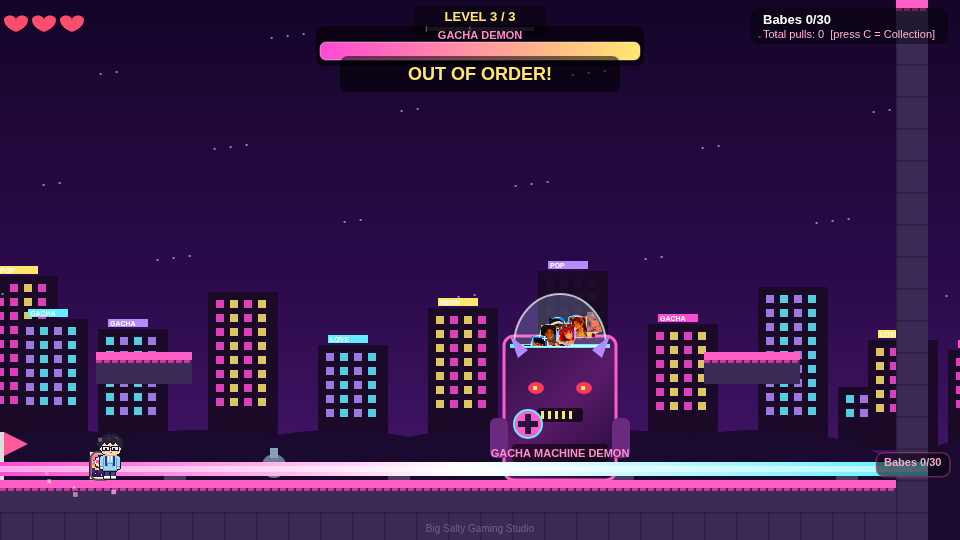
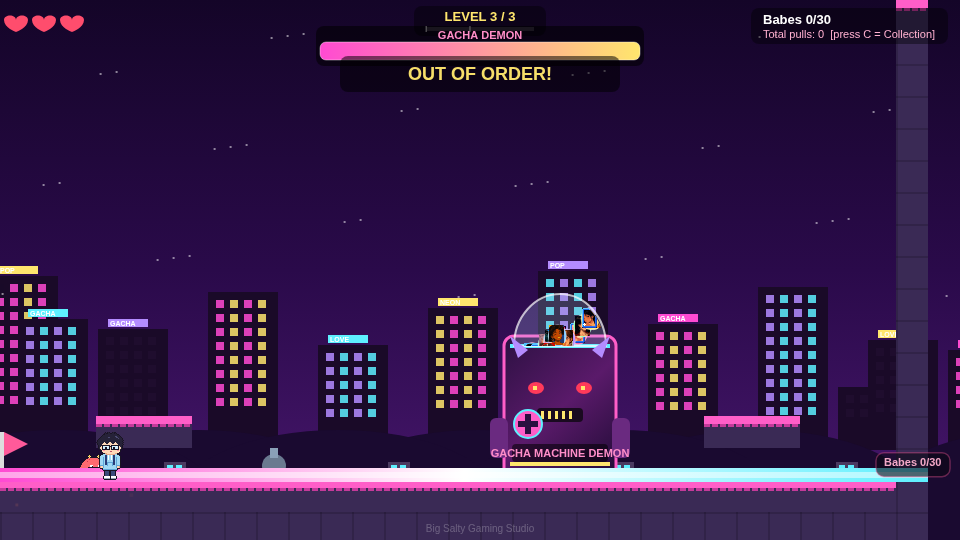
Boss fight fixes: Oni/Slime minions, lower platforms, post-hit stun
Replace fake-pull cardback hoppers with Mini Oni walkers and Mochi Slime
hoppers. Drop arena ledges from y=11 (unreachable) to y=13 (2-tile jump).
After a crank stomp the boss enters a 1.15s cyan stunned recovery with no
contact damage, then a short idle telegraph before the next attack.

diff --git a/index.html b/index.html
@@ -1508,8 +1508,9 @@ const SECTIONS = {
   rooftopRun: { w: 18, plats: [
       G(0, 18), P(6, 13, 3), P(11, 12, 3) ],
     picks: [[7, 11], [12, 10]], enemies: [], cps: [2] },
-  // Boss arena (~1 screen / 30 tiles). Entrance is the checkpoint; the goal is unlocked after the defeat.
-  bossArena: { w: 30, plats: [G(0, 30), P(4, 11, 3), P(23, 11, 3)],
+  // Boss arena (~1 screen / 30 tiles). Entrance CP; goal unlocks after defeat.
+  // Side ledges at y=13 (2 tiles / 64px) — within max jump ~2.73 tiles; old y=11 was unreachable.
+  bossArena: { w: 30, plats: [G(0, 30), P(4, 13, 3), P(23, 13, 3)],
     picks: [], enemies: [], cps: [1], goal: 26 },
 };
 
@@ -2324,7 +2325,8 @@ function finishSlot() {
 
 // ---------- Gacha Machine Demon (Level 3 boss) ----------
 // 3 HP. Attacks telegraph clearly; the glowing crank is only stompable while it "jams"
-// after an attack (smoke + "OUT OF ORDER"). Death resets HP + clears minions/projectiles
+// after an attack (smoke + "OUT OF ORDER"). Hit → stunned recovery (cyan flash) before hostile.
+// Death resets HP + clears minions/projectiles
 // and parks the player at the arena entrance. Defeat → shake → rare-or-better slot pull → final win.
 const BOSS_HP = 3;
 const BOSS_W = 4 * TILE;   // 128
@@ -2334,6 +2336,7 @@ const BOSS_BEAM_WARN = 0.6, BOSS_BEAM_FIRE = 0.55, BOSS_BEAM_FIRE_LOW = 0.2;
 const BOSS_COIN_N = [3, 4, 5];     // coins per spit by phase (1–3)
 const BOSS_MINION_N = [2, 3, 4];
 const BOSS_VULN = [1.6, 1.35, 1.15];
+const BOSS_HIT_STUN = 1.15; // post-stomp recovery before hostile again
 const BOSS_IDLE = [1.1, 0.85, 0.65];
 const BOSS_ATTACKS = ["beam", "coins", "minions"];
 
@@ -2377,7 +2380,7 @@ function resetBossFight() {
   if (!boss) return;
   // Clear fight-only state; keep position / arena / caps
   boss.hp = BOSS_HP; boss.phase = 0; boss.mode = "idle"; boss.modeT = 0; boss.nextAtk = 0;
-  boss.beam = null; boss.coins = []; boss.minions = [];
+  boss.beam = null; boss.coins = []; clearBossMinions();
   boss.shake = 0; boss.flash = 0; boss.grin = 0; boss.rewardPending = false; boss.defeated = false;
   // Remove the temporary walls so the next entry re-locks cleanly
   if (boss.wallPlats.length) {
@@ -2432,19 +2435,37 @@ function beginBossAttack(kind) {
     }
     boss.grin = 0.6;
   } else if (kind === "minions") {
+    clearBossMinions();
     const n = BOSS_MINION_N[bossPhase()];
-    boss.minions = [];
+    const sp = (level && level.diff && level.diff.enemySpeed) || 1;
+    const minX = boss.arenaL + 8, maxX = boss.x - 8;
     for (let i = 0; i < n; i++) {
-      const mx = boss.arenaL + 40 + i * 70 + Math.random() * 20;
-      boss.minions.push({
-        type: "minion", x: mx, y: GROUND_Y * TILE - 28, w: 22, h: 28,
-        vx: 55 + bossPhase() * 12, vy: 0, dir: Math.random() < 0.5 ? -1 : 1,
-        alive: true, hopT: Math.random() * 0.4, hopEvery: 0.85 - bossPhase() * 0.08,
-        minX: boss.arenaL + 8, maxX: boss.x - 8, bob: Math.random() * 6, prevX: mx, prevY: GROUND_Y * TILE - 28,
+      const hop = i % 2 === 1; // alternate Mini Oni walker / Mochi Slime hopper
+      const mxTile = (boss.arenaL + 40 + i * 70) / TILE;
+      const e = enemyOnPlat(hop ? "hopper" : "walker", mxTile, GROUND_Y, hop ? 26 : 28, hop ? 26 : 28, {
+        vx: (hop ? 40 : 55 + bossPhase() * 10) * sp,
+        dir: Math.random() < 0.5 ? -1 : 1,
+        minX, maxX,
+        hopT: hop ? Math.random() * 0.4 : 0,
+        hopEvery: hop ? (0.95 - bossPhase() * 0.08) / sp : 1.1,
+        bossMinion: true,
       });
+      // Clamp into the arena walk band
+      e.x = Math.max(minX, Math.min(maxX - e.w, e.x));
+      e.prevX = e.x; e.prevY = e.y;
+      enemies.push(e);
+      boss.minions.push(e);
     }
     boss.grin = 0.5;
   }
+}
+
+function clearBossMinions() {
+  if (!boss) return;
+  for (const m of boss.minions) { m.alive = false; m.squishT = 99; }
+  boss.minions = [];
+  // Drop spent boss-minion corpses from the shared enemies list
+  enemies = enemies.filter(e => !e.bossMinion);
 }
 
 function beginBossVulnerable() {
@@ -2457,23 +2478,29 @@ function beginBossVulnerable() {
 function hitBoss() {
   if (!boss || boss.mode !== "vulnerable") return false;
   boss.hp--; boss.phase++;
-  boss.shake = 0.55; boss.flash = 0;
-  player.vy = STOMP_V_HELD; player.fromStomp = true; player.stompGrace = 0.15;
+  boss.shake = 0.7;
+  player.vy = STOMP_V_HELD; player.fromStomp = true; player.stompGrace = 0.4;
   player.onGround = false; player.jumpBuf = 0;
+  // Nudge off the crank so we don't re-land on the cabinet
+  player.vx = (player.x + player.w / 2 < boss.x + boss.w / 2 ? -1 : 1) * 180;
   sfx.stomp();
-  spawnParticles(boss.x + boss.w / 2, boss.y + boss.h / 2, "#ff5ec8", 18);
-  spawnParticles(boss.x + boss.w / 2, boss.y + 40, "#ffe66d", 10);
-  boss.minions.forEach(m => { m.alive = false; });
-  boss.coins = [];
+  spawnParticles(boss.x + boss.w / 2, boss.y + boss.h / 2, "#5ef0ff", 18);
+  spawnParticles(boss.x + boss.w / 2, boss.y + 40, "#ffffff", 12);
+  clearBossMinions();
+  boss.coins = []; boss.beam = null;
   if (boss.hp <= 0) beginBossDefeat();
-  else { boss.mode = "idle"; boss.modeT = 0; boss.nextAtk = 0.4; addCallout("Gacha jammed! ×" + (BOSS_HP - boss.hp), "#ff8ec8"); }
+  else {
+    // Stunned recovery: no contact damage / no attacks; cyan-white flash, then idle telegraph
+    boss.mode = "stunned"; boss.modeT = 0; boss.flash = BOSS_HIT_STUN; boss.grin = 0;
+    addCallout("Gacha jammed! ×" + (BOSS_HP - boss.hp), "#5ef0ff");
+  }
   return true;
 }
 
 function beginBossDefeat() {
   boss.mode = "defeat"; boss.modeT = 0; boss.defeated = true;
   boss.shake = 1.8; boss.beam = null; boss.coins = [];
-  boss.minions.forEach(m => { m.alive = false; });
+  clearBossMinions();
   addCallout("GACHA DEMON DOWN!", "#ffe66d");
   sfx.win();
 }
@@ -2520,29 +2547,8 @@ function updateBoss(dt) {
     if (aabb(player, c) && invuln <= 0) { hurtPlayer(c.x); boss.coins.splice(i, 1); }
   }
 
-  // Minions (cardback hoppers)
-  for (const m of boss.minions) {
-    if (!m.alive) continue;
-    m.prevX = m.x; m.prevY = m.y; m.bob += dt * 4;
-    if (m.x < m.minX) { m.x = m.minX; m.dir = 1; }
-    if (m.x + m.w > m.maxX) { m.x = m.maxX - m.w; m.dir = -1; }
-    m.x += m.vx * m.dir * dt;
-    m.vy += GRAV * 0.9 * dt; m.y += m.vy * dt;
-    const top = platformTopNear(m.x, m.w, m.y + m.h);
-    if (top != null && m.y + m.h >= top - 1 && m.vy >= 0) {
-      m.y = top - m.h; m.vy = 0; m.hopT += dt;
-      if (m.hopT > m.hopEvery) { m.vy = -480; m.hopT = 0; }
-    }
-    if (!aabb(player, m)) continue;
-    const prevPB = (player.prevY != null ? player.prevY : player.y) + player.h;
-    const fromAbove = prevPB <= (m.prevY != null ? m.prevY : m.y) + 8;
-    if (fromAbove || (player.y + player.h <= m.y + m.h * 0.55 && player.y < m.y)) {
-      m.alive = false; player.vy = STOMP_V; player.fromStomp = true; player.stompGrace = 0.12;
-      player.onGround = false; sfx.stomp();
-      spawnParticles(m.x + m.w / 2, m.y + m.h / 2, "#ffb0d0", 8);
-    } else hurtPlayer(m.x + m.w / 2);
-  }
-  boss.minions = boss.minions.filter(m => m.alive || (m.deadT = (m.deadT || 0) + dt) < 0.3);
+  // Boss minions live in `enemies` (walker/hopper AI + stomp rules). Keep the ref list tidy.
+  boss.minions = boss.minions.filter(m => m.alive || (m.squishT != null && m.squishT < ENEMY_SQUISH_SHOW));
 
   // Beam
   if (boss.beam) {
@@ -2564,7 +2570,7 @@ function updateBoss(dt) {
       const prevPB = (player.prevY != null ? player.prevY : player.y) + player.h;
       if (prevPB <= crank.y + 10 && player.vy >= 0) hitBoss();
     }
-  } else if (boss.mode !== "defeat" && boss.mode !== "done") {
+  } else if (boss.mode !== "defeat" && boss.mode !== "done" && boss.mode !== "stunned") {
     // Body contact hurts (not stomping the body — only the crank is a weak point)
     if (aabb(player, boss) && invuln <= 0 && player.stompGrace <= 0) hurtPlayer(boss.x + boss.w / 2);
   }
@@ -2581,6 +2587,8 @@ function updateBoss(dt) {
   } else if (boss.mode === "minions") {
     // Vulnerable once minions are gone, or after a timeout so the fight can't stall
     if ((boss.minions.every(m => !m.alive) && boss.modeT > 0.6) || boss.modeT > 5.5) beginBossVulnerable();
+  } else if (boss.mode === "stunned") {
+    if (boss.modeT >= BOSS_HIT_STUN) { boss.mode = "idle"; boss.modeT = 0; boss.nextAtk = 0.6; boss.flash = 0; }
   } else if (boss.mode === "vulnerable") {
     if (boss.modeT >= BOSS_VULN[ph]) { boss.mode = "idle"; boss.modeT = 0; boss.nextAtk = 0.3; }
   } else if (boss.mode === "defeat") {
@@ -2599,8 +2607,20 @@ function drawBoss() {
   body.addColorStop(0, "#2a1040"); body.addColorStop(0.5, "#5a1a6a"); body.addColorStop(1, "#1a0a30");
   ctx.fillStyle = body;
   roundRect(bx + 8, by + 48, boss.w - 16, boss.h - 48, 10); ctx.fill();
-  ctx.strokeStyle = "#ff5ec8"; ctx.lineWidth = 3;
+  ctx.strokeStyle = (boss.mode === "stunned") ? "#5ef0ff" : "#ff5ec8"; ctx.lineWidth = 3;
   roundRect(bx + 8, by + 48, boss.w - 16, boss.h - 48, 10); ctx.stroke();
+  if (boss.mode === "stunned") {
+    const pulse = 0.25 + 0.2 * Math.abs(Math.sin(boss.t * 14));
+    ctx.fillStyle = `rgba(255,255,255,${pulse})`;
+    roundRect(bx + 8, by + 48, boss.w - 16, boss.h - 48, 10); ctx.fill();
+    // Smoke while recovering
+    for (let i = 0; i < 5; i++) {
+      const sx = bx + 24 + i * 20 + Math.sin(boss.t * 4 + i) * 5;
+      const sy = by + 36 - ((boss.modeT * 40 + i * 10) % 55);
+      ctx.fillStyle = `rgba(200,230,255,${0.4 - i * 0.05})`;
+      ctx.beginPath(); ctx.arc(sx, sy, 7 + (i % 3), 0, Math.PI * 2); ctx.fill();
+    }
+  }
   // Neon trim stripes
   ctx.fillStyle = "#5ef0ff"; ctx.fillRect(bx + 14, by + 56, boss.w - 28, 4);
   ctx.fillStyle = "#ffe66d"; ctx.fillRect(bx + 14, by + boss.h - 18, boss.w - 28, 4);
@@ -2622,9 +2642,10 @@ function drawBoss() {
     if (babe) drawCard(babe, px - 7.5, py - 10, 15, 20, { iconOnly: true });
   }
   ctx.restore();
-  // Demon face
-  const eyeY = by + 100, eyeOpen = boss.mode === "vulnerable" ? 3 : 6;
-  ctx.fillStyle = boss.mode === "vulnerable" ? "#888" : "#ff3a5a";
+  // Demon face (stunned = cyan/white, vulnerable = dim, else hostile red)
+  const stunned = boss.mode === "stunned";
+  const eyeY = by + 100, eyeOpen = (boss.mode === "vulnerable" || stunned) ? 3 : 6;
+  ctx.fillStyle = stunned ? "#5ef0ff" : boss.mode === "vulnerable" ? "#888" : "#ff3a5a";
   ctx.beginPath(); ctx.ellipse(bx + 40, eyeY, 8, eyeOpen, 0, 0, Math.PI * 2); ctx.fill();
   ctx.beginPath(); ctx.ellipse(bx + boss.w - 40, eyeY, 8, eyeOpen, 0, 0, Math.PI * 2); ctx.fill();
   ctx.fillStyle = "#ffe66d";
@@ -2646,7 +2667,8 @@ function drawBoss() {
   // Crank / weak point
   const cr = bossCrankRect();
   const vuln = boss.mode === "vulnerable";
-  ctx.fillStyle = vuln ? "#ffe66d" : "#ff5ec8";
+  const stun = boss.mode === "stunned";
+  ctx.fillStyle = stun ? "#ffffff" : vuln ? "#ffe66d" : "#ff5ec8";
   ctx.beginPath(); ctx.arc(cr.x + cr.w / 2 + sk, cr.y + cr.h / 2, cr.w / 2, 0, Math.PI * 2); ctx.fill();
   ctx.strokeStyle = vuln ? "#fff" : "#5ef0ff"; ctx.lineWidth = vuln ? 3 : 2; ctx.stroke();
   ctx.fillStyle = "#2a1040";
@@ -2665,9 +2687,13 @@ function drawBoss() {
     ctx.fillStyle = "#ffe66d"; ctx.font = "bold 11px sans-serif"; ctx.textAlign = "center";
     ctx.fillText("OUT OF ORDER", bx + boss.w / 2, by + 160);
   }
+  if (stun) {
+    ctx.fillStyle = "#5ef0ff"; ctx.font = "bold 12px sans-serif"; ctx.textAlign = "center";
+    ctx.fillText("STUNNED", bx + boss.w / 2, by + 160);
+  }
   // Nameplate
   ctx.fillStyle = "rgba(0,0,0,0.55)"; roundRect(bx + 16, by + boss.h - 36, boss.w - 32, 18, 4); ctx.fill();
-  ctx.fillStyle = "#ff8ec8"; ctx.font = "bold 11px sans-serif"; ctx.textAlign = "center";
+  ctx.fillStyle = stun ? "#5ef0ff" : "#ff8ec8"; ctx.font = "bold 11px sans-serif"; ctx.textAlign = "center";
   ctx.fillText("GACHA MACHINE DEMON", bx + boss.w / 2, by + boss.h - 23);
 
   // Beam telegraph / fire
@@ -2695,12 +2721,7 @@ function drawBoss() {
     ctx.fillStyle = "#c4a020"; ctx.font = "bold 9px sans-serif"; ctx.textAlign = "center";
     ctx.fillText("¥", 0, 3); ctx.restore();
   }
-  // Fake-pull minions (mystery cardbacks)
-  for (const m of boss.minions) {
-    if (!m.alive && (m.deadT || 0) > 0.05) continue;
-    const bob = Math.sin(m.bob) * 2;
-    drawCard(CHAR_DEFS[0], m.x, m.y + bob, m.w, m.h, { iconOnly: true, locked: true });
-  }
+  // Minions are drawn with the normal enemy pass (Mini Oni / Mochi Slime).
 }
 
 function drawBossHud() {

diff --git a/README.md b/README.md
@@ -36,7 +36,7 @@ Open `index.html` (or host the file) on iOS Safari / Android Chrome. Viewport is
 - **Death**: gallery-style scrolled grid (rarity→name) with the lost babe crossed by a pen-stroke red X; owned count in header. Pit = full wipe + lose one babe.
 - **Win**: babes gained this run (scrollable row) + totals.
 - **Save**: `hbc_collection_v1` counts map; also writes `hbc_collection_v2` wrapper (v1 still loaded/migrated).
-- **Level 3 — Gacha Machine Demon**: neon rooftop run-in then arena lock. Boss HP 3 (stomp the crank). Attacks: pity beam (low = jump / high = stay down), coin spit, fake-pull minion walkers. Reward roll is Rare-or-better (10:2 rare:ultra).
+- **Level 3 — Gacha Machine Demon**: neon rooftop run-in then arena lock. Boss HP 3 (stomp the crank). Attacks: pity beam (low = jump / high = stay down), coin spit, Mini Oni / Mochi Slime minions. After each crank hit the boss is stunned ~1.15s (cyan/white, no contact damage) before the next attack. Reward roll is Rare-or-better (10:2 rare:ultra).
 - **Collection reset**: **P** opens a confirm popup from any state (title, play, slot, gallery, death, win, congrats, boss); freezes the frame underneath and resumes on Space/Cancel. Gallery also has a Reset button. Wipe is safe mid-death / mid-roll (no stale babe refs).
 
 ## Files
